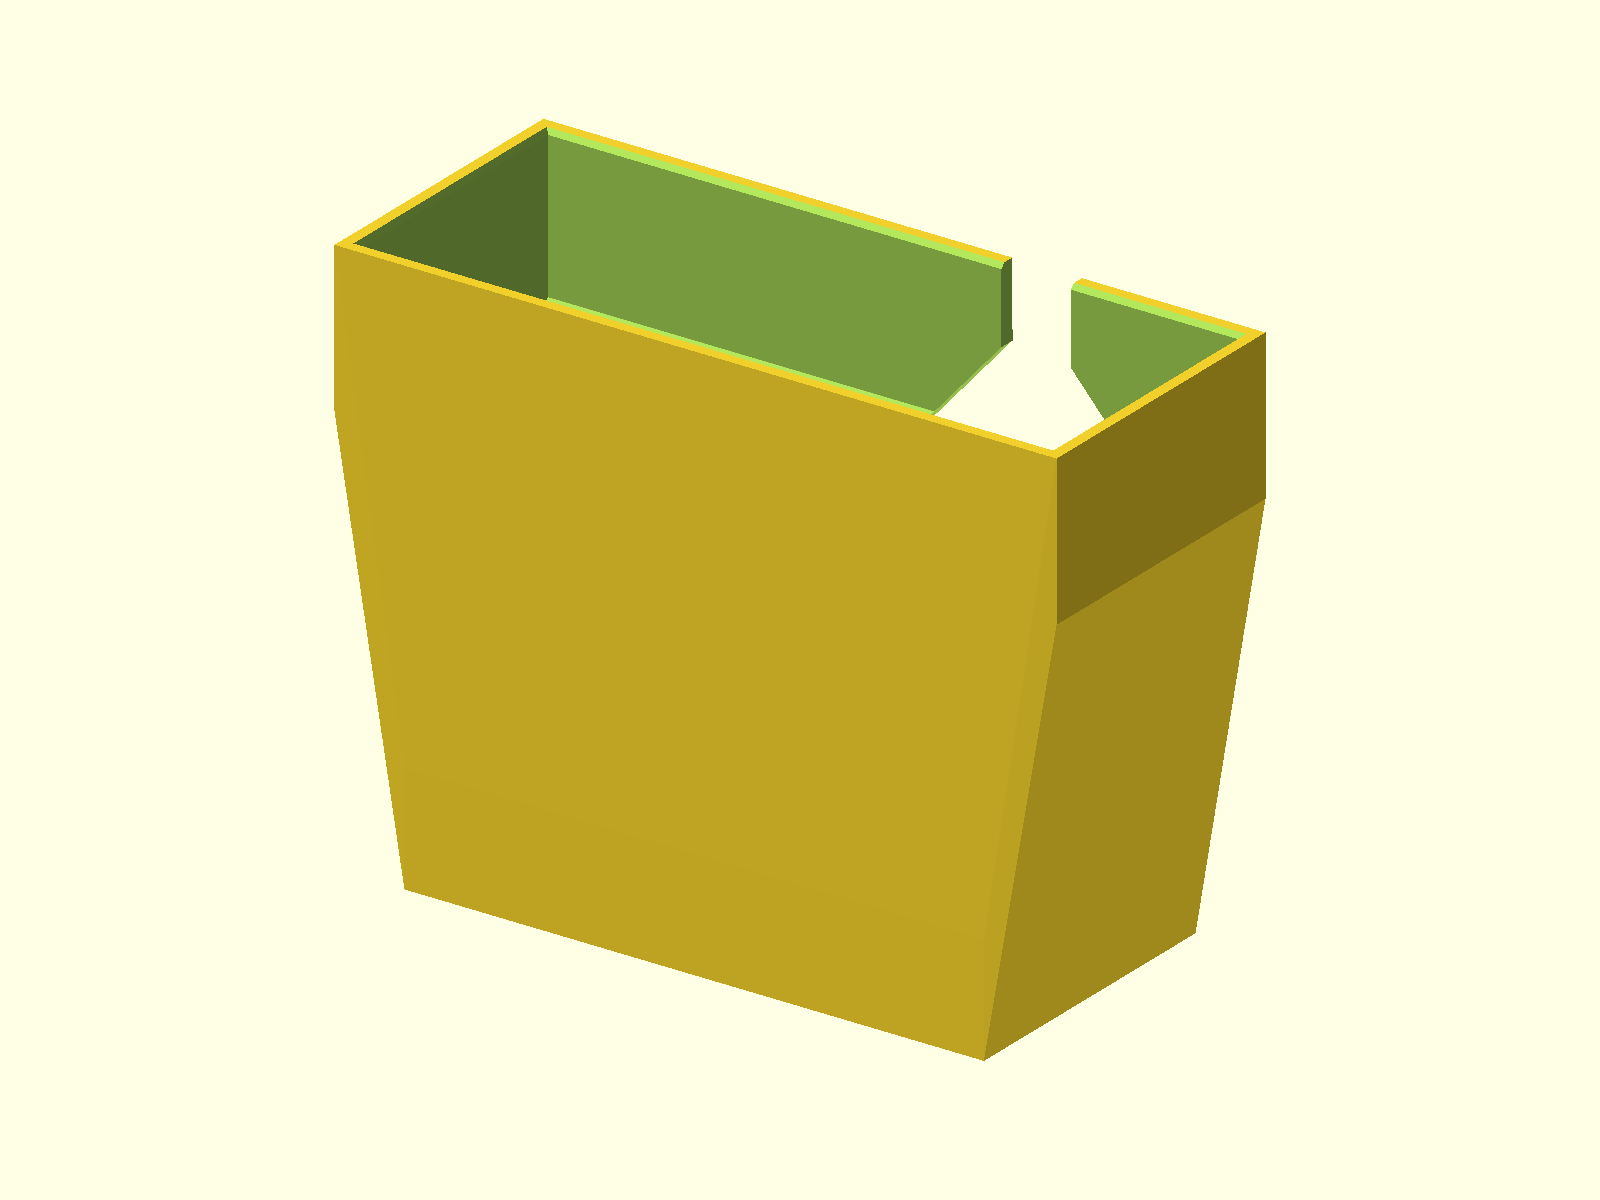
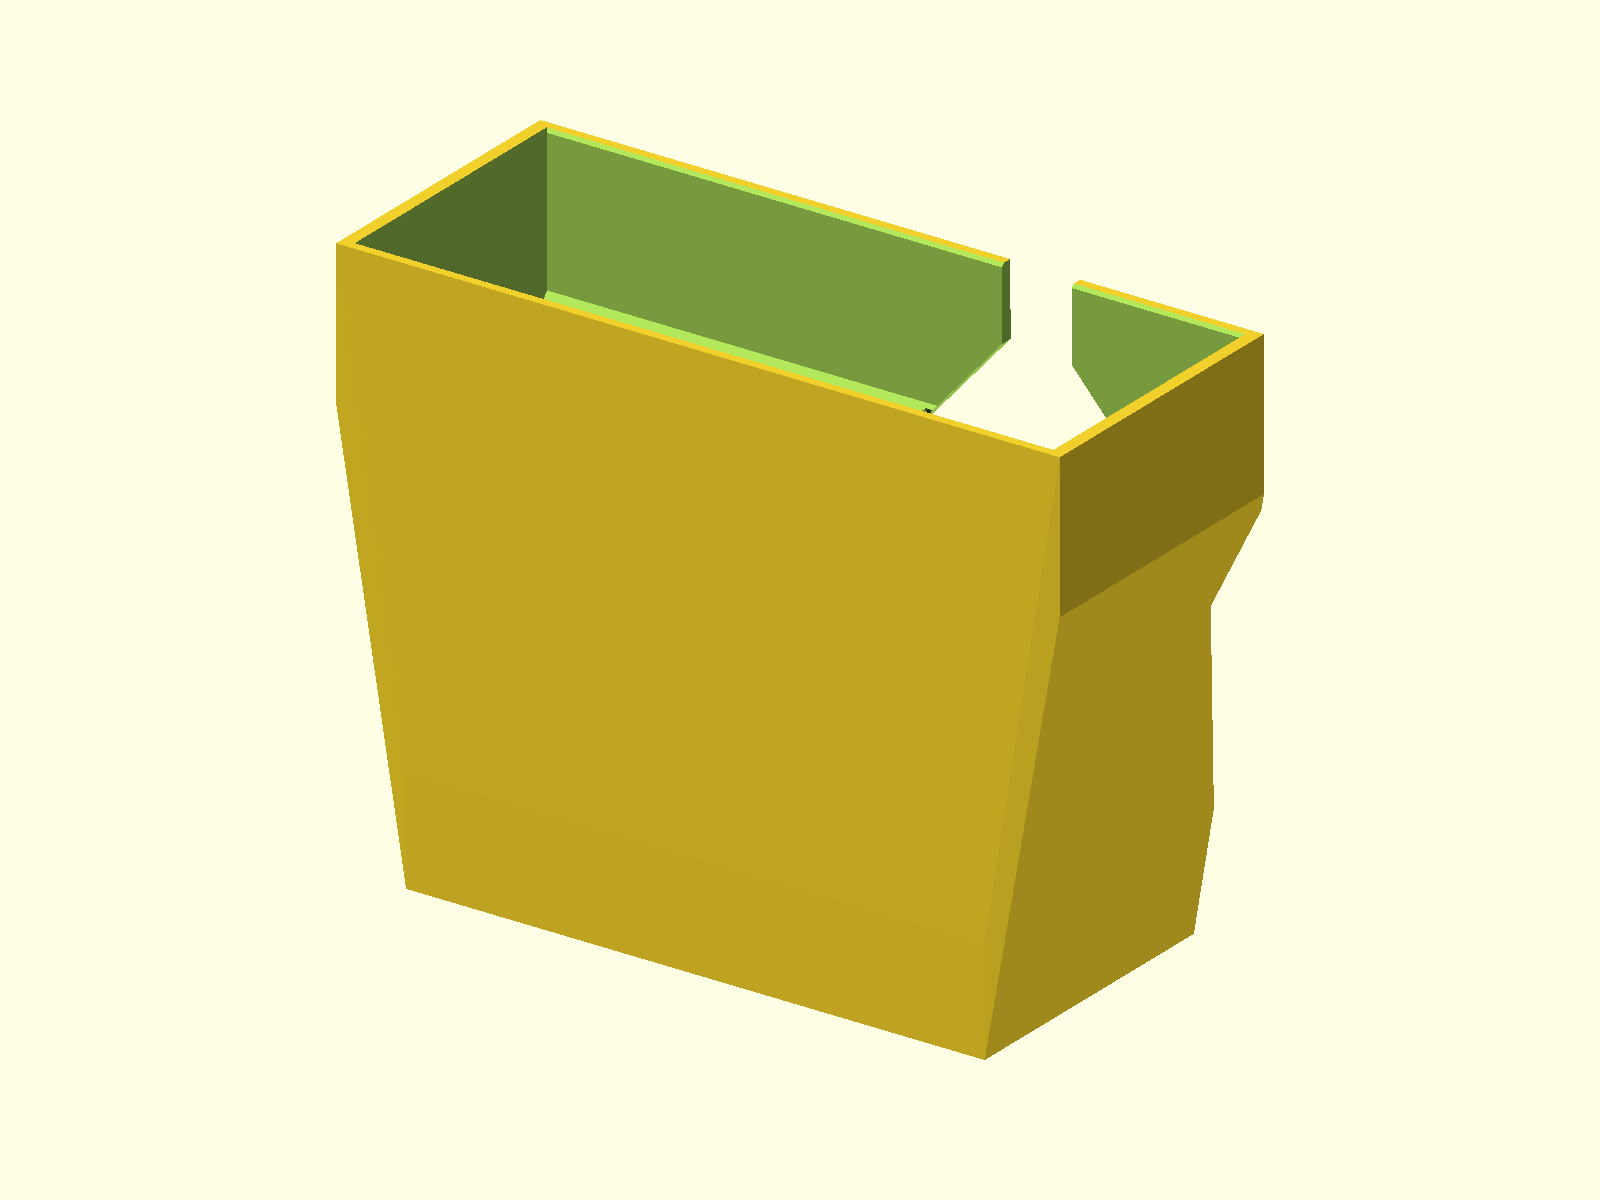
Refine V620 fan shroud fit and cable routing
Thin the shell for dual-GPU clearance, revise power cable channels and honor the cable shroud option. Optimize dual 40mm print time. Update dimensions, tested compatibility and preview images.

diff --git a/models/v620-fan-shroud/README.md b/models/v620-fan-shroud/README.md
@@ -12,20 +12,28 @@ shroud.
 
 ## Status
 
-- Last verified: 2026-10-25 (build)
+- Last verified: 2026-11-14 (build)
 - OpenSCAD version: see the [root README](../../README.md)
-- Physically tested: yes, including the V620 fit and both 8-pin power plugs
+- Physically tested: yes — the V620 fit, both 8-pin power plugs, the V340L
+  fit, and the single-slot version in a dual-GPU (two cards side by side)
+  setup
 
 ## Compatibility
 
 | Card | Fit |
 |---|---|
 | Radeon PRO V620 | Tested |
-| Radeon PRO V340L | Confirmed to work; needs adjusted sizing (same heatsink opening) |
+| Radeon PRO V340L | Tested |
 | Instinct MI50 / MI100 | May fit with tweaks; check the heatsink opening and screw bosses |
 
 The shroud grips the stock heatsink opening by friction. It does not screw to
 the card.
+
+The single-slot (2× 40 mm) version is tested in a dual-GPU setup with two
+cards side by side. The shell walls are thinned to 1.37 mm so the shrouds
+clear the PCIe slots in that layout — this also trimmed roughly 40 minutes
+off the dual-40 print time and removed internal void spaces. The dual-40
+variant received improved cable routing for the power connectors.
 
 ## Fans
 
@@ -48,18 +56,19 @@ increase only if the card is still throttling.
 | `80mm_75` | 1× 80 mm, 75° | Shallower fan angle |
 | `80mm_60` | 1× 80 mm, 60° | Shallower fan angle |
 | `80mm_45` | 1× 80 mm, 45° | Lowest-profile 80 mm angle |
-| `single_slot_40` | 2× 40 mm | Single-slot alternate, S4028-15K |
+| `single_slot_40` | 2× 40 mm | Single-slot alternate, S4028-15K, improved cable routing |
 
 ## Dimensions
 
 | Item | Size |
 |---|---|
-| Primary (90°) | 104.0 x 83.5 x 79.0 mm (45° variant is tallest at 105.6 mm) |
-| Card opening | about 99.3–99.5 x 38.4 mm, 18 mm deep |
-| Airflow duct opening | about 91.5 x 38 mm (single-slot version: about 26 mm tall) |
+| Primary (90°) | 103.7 x 82.9 x 78.7 mm (45° variant is tallest at 105.0 mm) |
+| Card opening (V620) | about 99.3–99.5 x 38.4 mm, 18 mm deep |
+| Card opening (V340L option) | 97 x 39.3 mm cavity, 98.8 mm PCB relief band |
+| Airflow duct opening | about 92 x 37 mm (single-slot version: about 25 mm tall) |
 | 8-pin power cutout | 38.7 x 11.5 mm, 14 mm deep |
 | 80 mm fan opening | about 80 mm wide, 8 mm deep |
-| 40 mm fan openings (single-slot) | about 40 x 80 mm each, 20 mm deep |
+| 40 mm fan openings (single-slot) | about 40 x 80 mm each, 14 mm deep |
 
 Other fan angles (75/60/45°) and the single-slot version have slightly
 different overall sizes.
@@ -92,8 +101,6 @@ python scripts/render_previews.py models/v620-fan-shroud --all
 ## Known issues
 
 - The MI50 and MI100 fits have not been physically tested.
-- The V340L fit is confirmed to work, but the source here is dimensioned for
-  the V620; a V340L build needs adjusted sizing.
 - The 40 mm version requires the higher-speed S4028-15K; the S4028-6K is not
   recommended.
 
